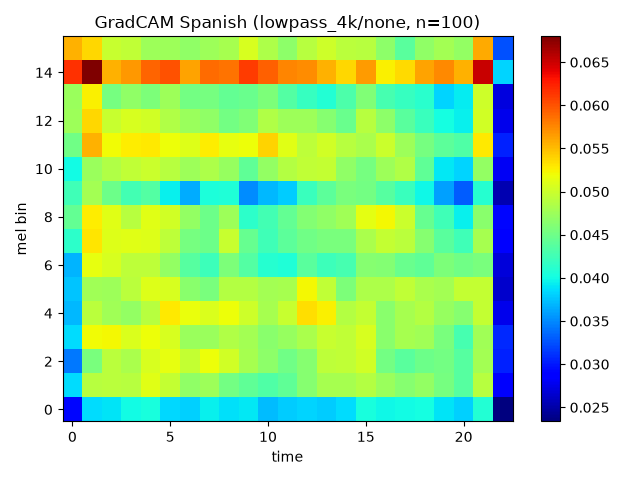
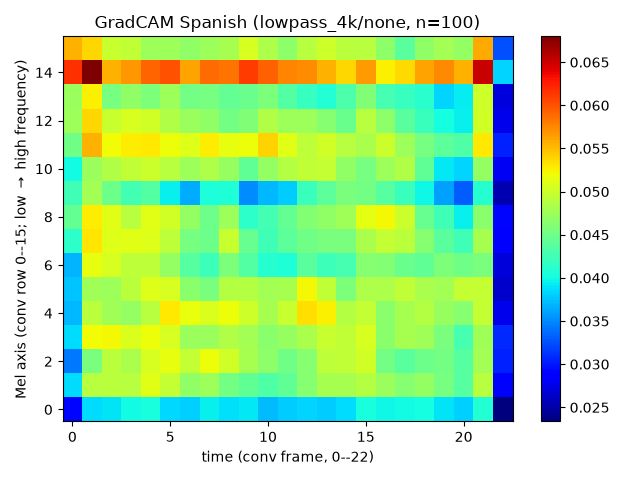
Fix Grad-CAM axis labels (conv[-4] resolution) + regenerate figures + gradcam mode
gradcam_figure._save now labels axes at the conv-feature-map resolution (16 Mel rows x ~23 frames), not raw Mel-bin index. modal_app experiment='gradcam' re-renders the baseline CAMs from cached features. Regenerated cam_nahuatl/spanish figures included. Run: modal run --detach experiments/modal_app.py --experiment gradcam

diff --git a/experiments/lid/gradcam_figure.py b/experiments/lid/gradcam_figure.py
@@ -9,9 +9,22 @@ from .data import grouped_folds
 from . import train, gradcam, config
 
 def _save(cam, title, path):
-    plt.figure(); plt.imshow(cam, origin="lower", aspect="auto", cmap="jet")
-    plt.title(title); plt.colorbar(); plt.xlabel("time"); plt.ylabel("mel bin")
-    plt.tight_layout(); plt.savefig(path); plt.close()
+    # cam is the Grad-CAM at the last Conv2d block (conv[-4]) resolution, NOT the raw
+    # input spectrogram: after two 2x2 max-pools the 64 input Mel bins become H rows
+    # (~4 input Mel bins each) and the time frames become W columns. Label the axes at
+    # that downsampled conv-feature-map resolution so the index is not misread as a raw
+    # 0-63 Mel-bin index.
+    h, w = cam.shape
+    plt.figure()
+    plt.imshow(cam, origin="lower", aspect="auto", cmap="jet")
+    plt.title(title)
+    plt.colorbar()
+    plt.xlabel(f"time (conv frame, 0--{w - 1})")
+    plt.ylabel(f"Mel axis (conv row 0--{h - 1}; low $\\rightarrow$ high frequency)")
+    plt.yticks(range(0, h, max(1, h // 8)))
+    plt.tight_layout()
+    plt.savefig(path)
+    plt.close()
 
 def render_cams(items, filenames, band, norm, device, out_dir, n_per_class=100, epochs=config.EPOCHS):
     tr, va = grouped_folds(filenames, config.K_FOLDS)[0]

diff --git a/experiments/modal_app.py b/experiments/modal_app.py
@@ -126,6 +126,25 @@ def run(smoke: bool = False, rebuild: bool = False, experiment: str = "baseline"
         print(f"PHASE: done (cv_nested {contrast}) -> {res['meta']}", flush=True)
         return res["meta"]
 
+    if experiment == "gradcam":
+        # Re-render the baseline Grad-CAM figures (Fig 5.1) with corrected axis labels
+        # (conv[-4] feature-map resolution, not raw Mel-bin index). Loads the cached
+        # baseline features (lowpass_4k/none = baseline best config), trains fold 0 inside
+        # render_cams, and writes cam_{nahuatl,spanish}_lowpass_4k_none.png.
+        from experiments import cache
+        from experiments.lid.gradcam_figure import render_cams
+        if not cache.is_cached(CACHE):
+            raise RuntimeError("feature cache missing; run baseline first to populate lid-features")
+        filenames, _ = cache.load_manifest(CACHE)
+        gc_band, gc_norm = "lowpass_4k", "none"
+        band_items = cache.load_band_items(CACHE, gc_band)
+        os.makedirs("/outputs/figures", exist_ok=True)
+        render_cams(band_items, filenames, gc_band, gc_norm, device="cuda",
+                    out_dir="/outputs/figures", n_per_class=(4 if smoke else 100), epochs=epochs)
+        out_vol.commit()
+        print(f"PHASE: done (gradcam {gc_band}/{gc_norm})", flush=True)
+        return {"experiment": "gradcam", "band": gc_band, "norm": gc_norm}
+
     if experiment in ("shuffle", "degrade"):
         if not cache.is_cached(CACHE):
             raise RuntimeError("feature cache missing; run baseline first to populate lid-features")